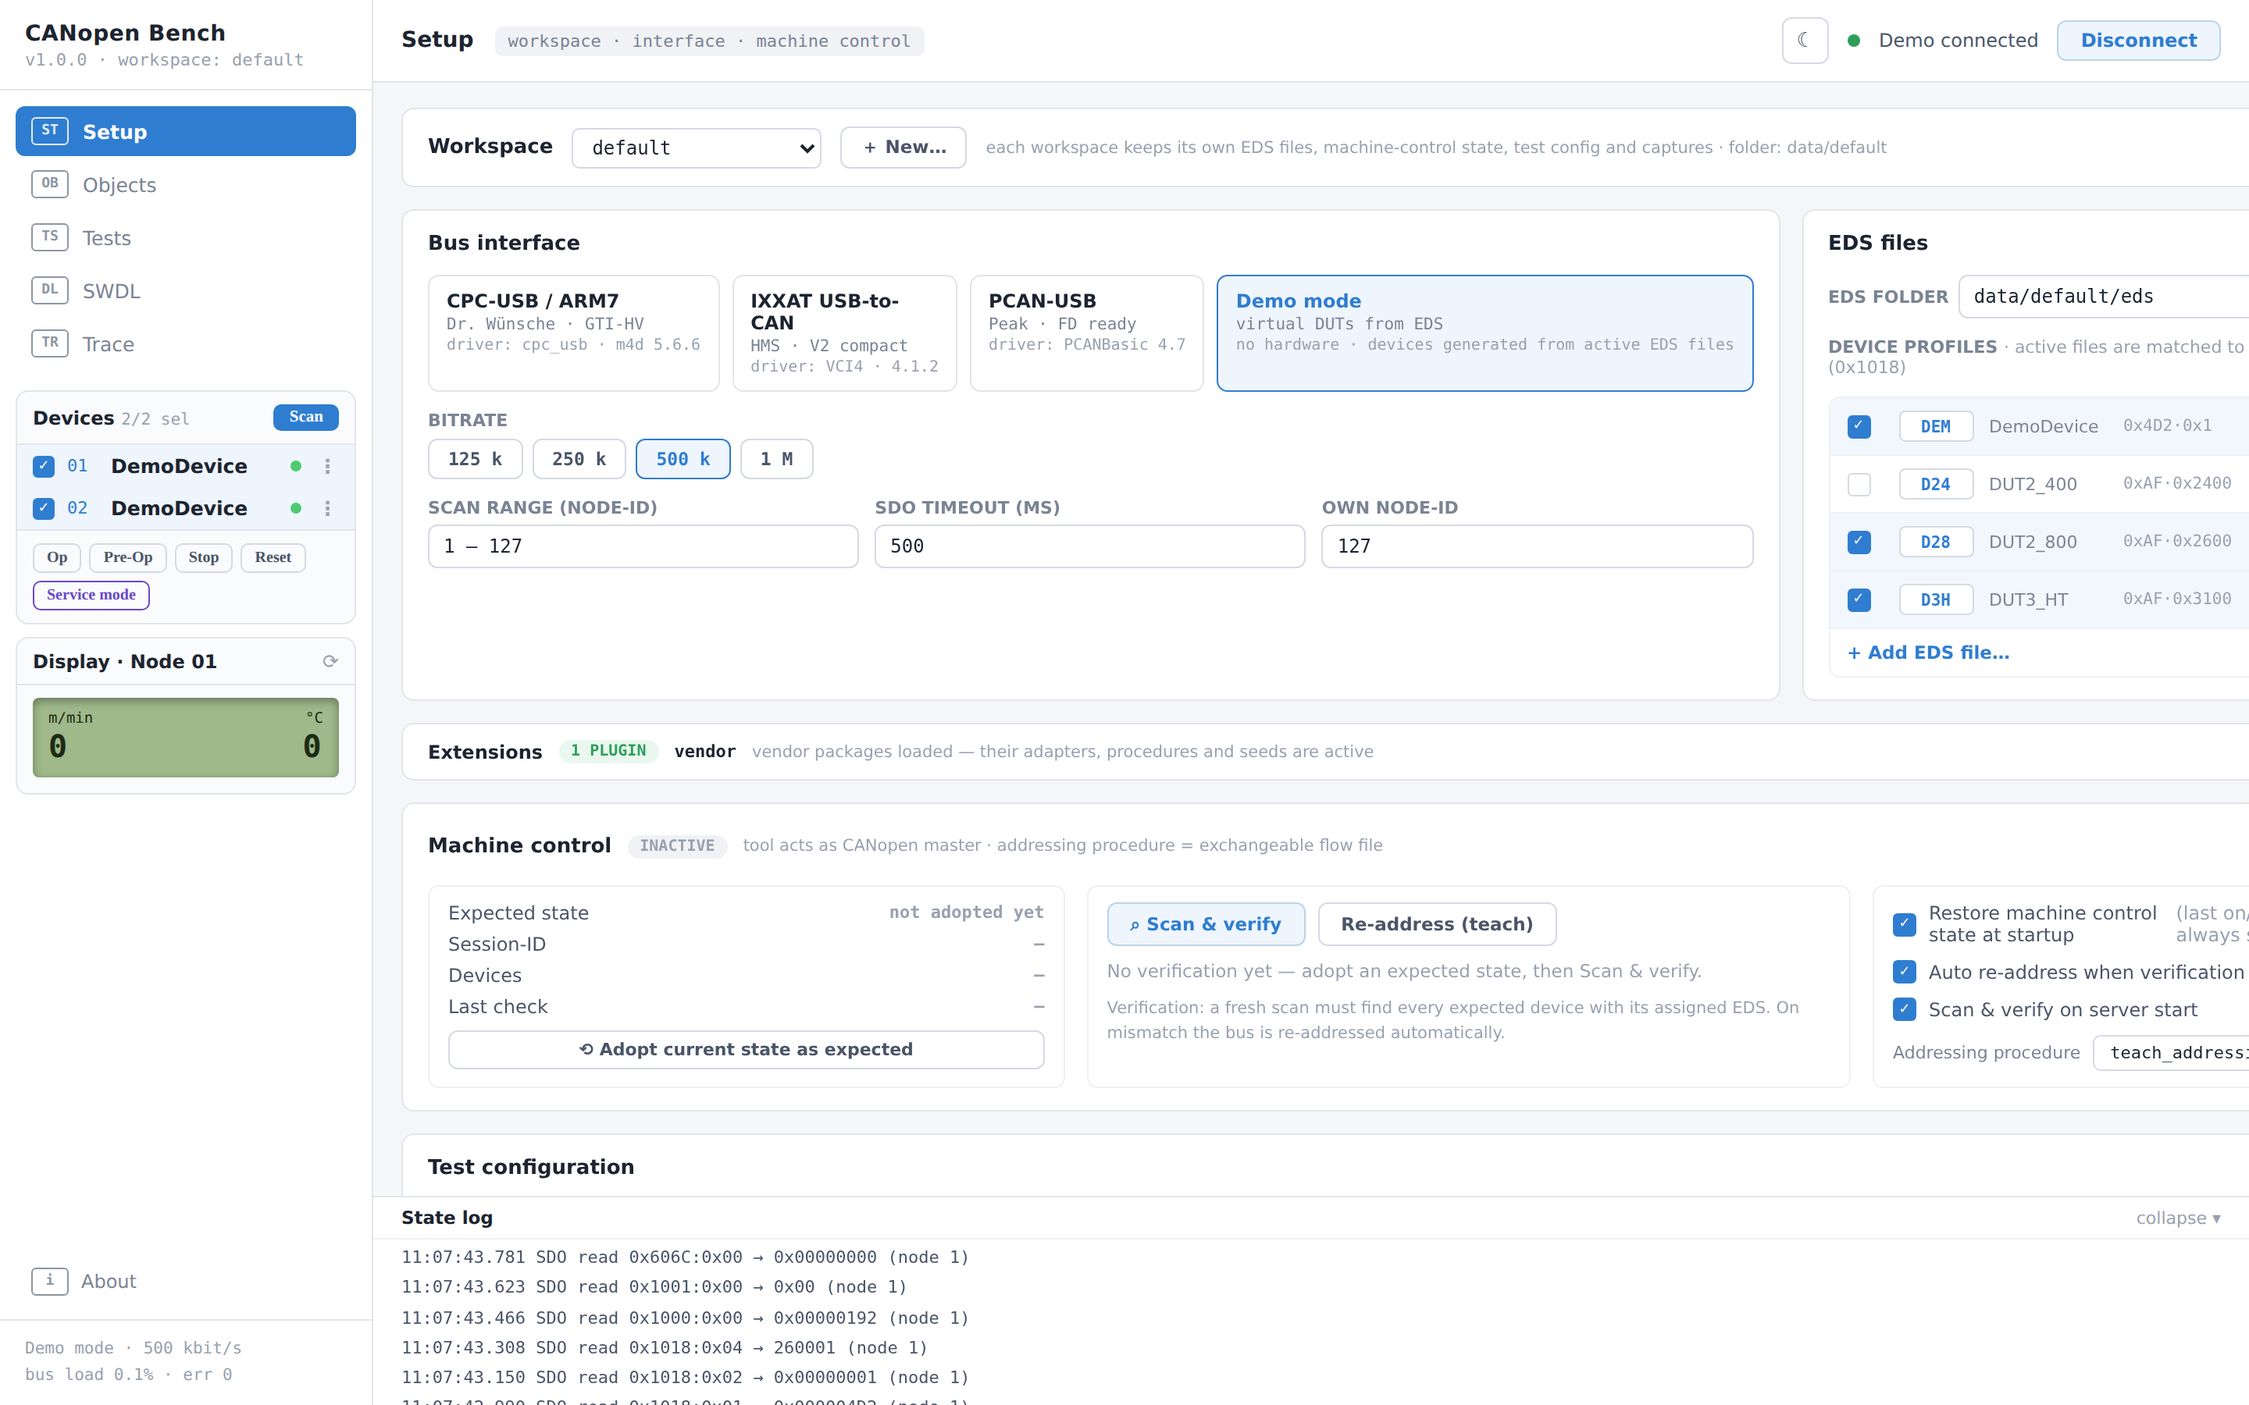
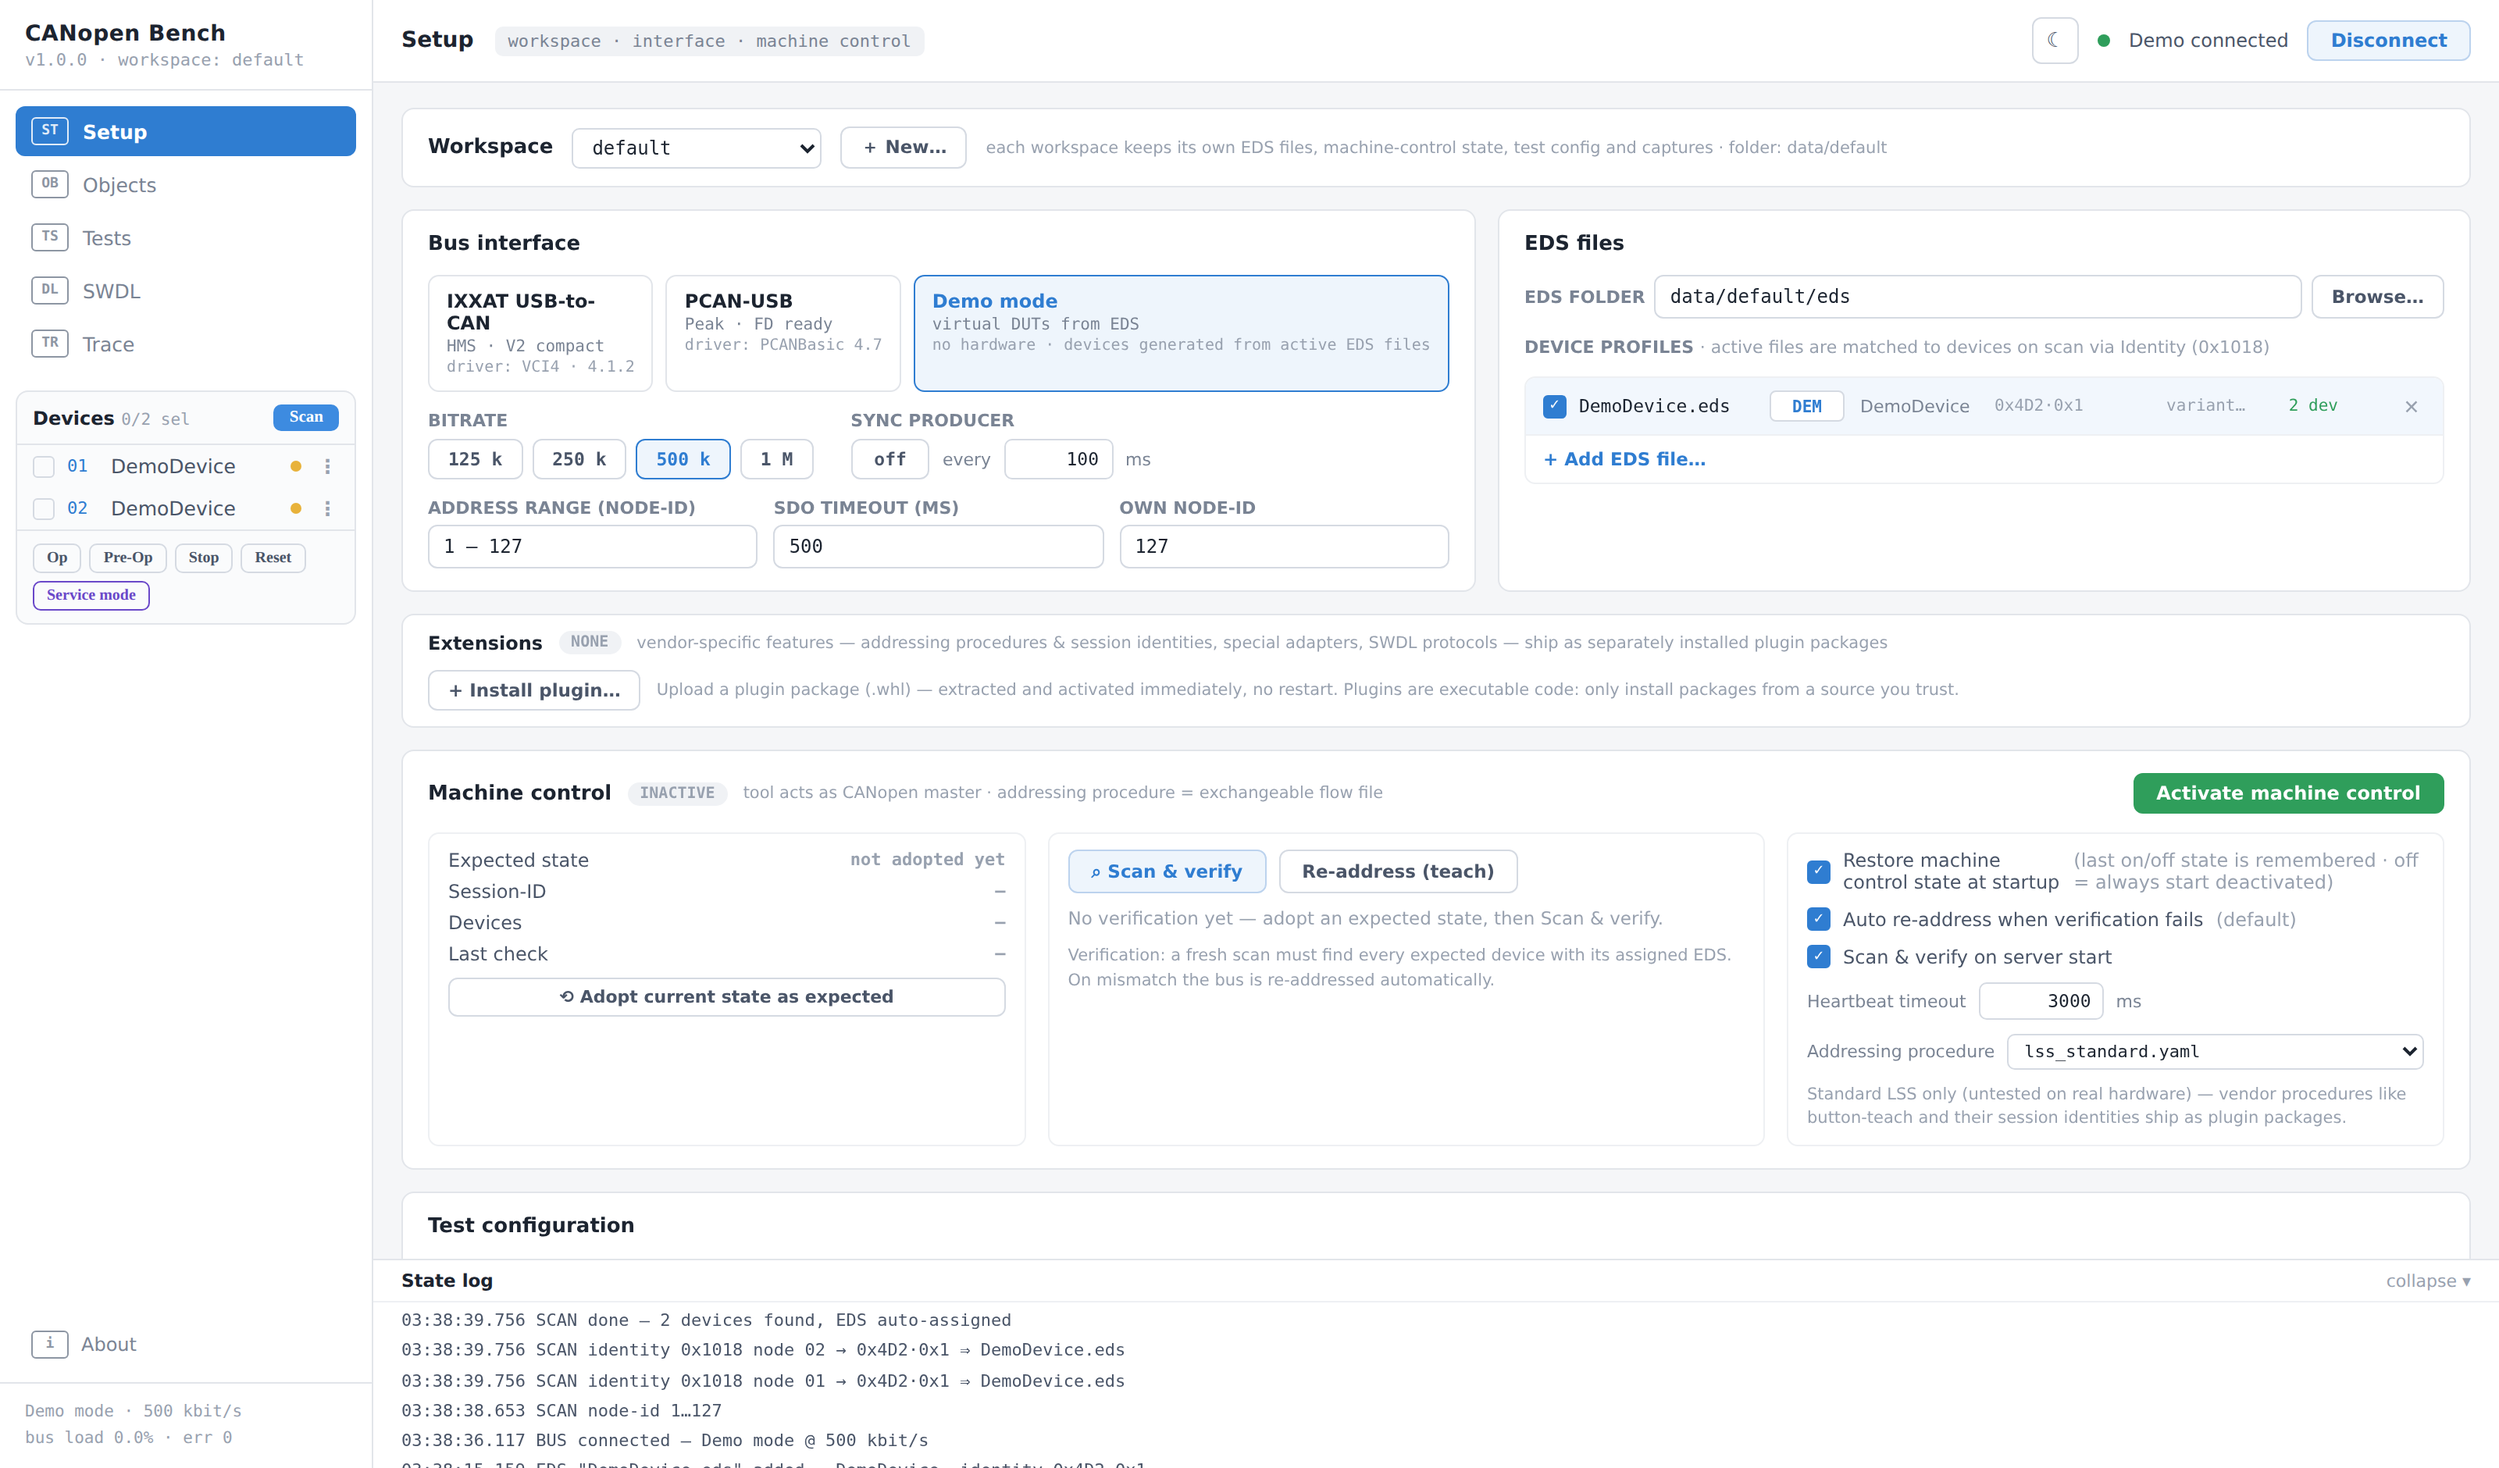
Drop todo.md; add third-party attribution and fix overstated claims
Legal/consistency pass over the public repo:

- remove todo.md (mostly delivered, rest deferred) and the two comments
  that referenced its Kategorie-B section
- add THIRD-PARTY-NOTICES.md and declare it a license-file so it ships
  in every wheel, sdist and Docker image. The vendored
  static/vendor/preact-htm.module.js carried no attribution at all
  although it bundles Preact (MIT) and htm (Apache-2.0) — both licenses
  require the notice to travel with the copy. It also records that
  python-can is LGPL-3.0, which matters when conveying a Docker image
  built from here, and the CANopen(R)/CiA(R) trademark position: this is
  an independent project, not CiA-affiliated and not a conformance test
  tool
- re-shoot docs/img/setup.png. The published screenshot was taken on a
  bench with the proprietary vendor plugin installed and showed its EDS
  registry seeds — device-family names against a real assigned vendor
  ID. The new one is plain demo mode: DemoDevice only, Extensions NONE
- soften the hardware table: it now says what has actually been run
  rather than reading as a warranty of support

Core suite 463 passed; both plugin suites pass against this core with
their entry points registered (19 + 13).

diff --git a/canopen_bench/core.py b/canopen_bench/core.py
@@ -980,7 +980,7 @@ class Bench:
         Assumes the predefined connection set (function code -> PDO
         number) and the EDS *default* mapping —
         a live remapped device may pack differently; reading the actual
-        mapping from the device is commissioning territory (todo.md B)."""
+        mapping from the device is commissioning territory."""
         if row["cls"] != "PDO" or row["node"] is None:
             return
         try:

diff --git a/THIRD-PARTY-NOTICES.md b/THIRD-PARTY-NOTICES.md
@@ -1,0 +1,100 @@
+# Third-party notices
+
+CANopen Bench itself is MIT-licensed (see `LICENSE`). It bundles and
+depends on the components below, which keep their own licenses. This
+file is the attribution required by those licenses; it travels with the
+wheel, the sdist and the Docker image.
+
+## Bundled in this repository
+
+Shipped as source inside the package (`canopen_bench/static/vendor/`),
+so these notices apply to every copy of CANopen Bench:
+
+| Component | License | Copyright |
+|---|---|---|
+| [Preact](https://preactjs.com) | MIT | © 2015-present Jason Miller |
+| [htm](https://github.com/developit/htm) | Apache-2.0 | © 2018 Jason Miller |
+
+Both are combined into the single bundle
+`canopen_bench/static/vendor/preact-htm.module.js`, which carries the
+same notices in its file header. The bundle is unmodified upstream
+output — CANopen Bench adds no code to it.
+
+### MIT (Preact)
+
+> Permission is hereby granted, free of charge, to any person obtaining a
+> copy of this software and associated documentation files (the
+> "Software"), to deal in the Software without restriction, including
+> without limitation the rights to use, copy, modify, merge, publish,
+> distribute, sublicense, and/or sell copies of the Software, and to
+> permit persons to whom the Software is furnished to do so, subject to
+> the following conditions:
+>
+> The above copyright notice and this permission notice shall be included
+> in all copies or substantial portions of the Software.
+>
+> THE SOFTWARE IS PROVIDED "AS IS", WITHOUT WARRANTY OF ANY KIND, EXPRESS
+> OR IMPLIED, INCLUDING BUT NOT LIMITED TO THE WARRANTIES OF
+> MERCHANTABILITY, FITNESS FOR A PARTICULAR PURPOSE AND NONINFRINGEMENT.
+> IN NO EVENT SHALL THE AUTHORS OR COPYRIGHT HOLDERS BE LIABLE FOR ANY
+> CLAIM, DAMAGES OR OTHER LIABILITY, WHETHER IN AN ACTION OF CONTRACT,
+> TORT OR OTHERWISE, ARISING FROM, OUT OF OR IN CONNECTION WITH THE
+> SOFTWARE OR THE USE OR OTHER DEALINGS IN THE SOFTWARE.
+
+### Apache-2.0 (htm)
+
+Licensed under the Apache License, Version 2.0. You may obtain a copy of
+the License at <http://www.apache.org/licenses/LICENSE-2.0>. Unless
+required by applicable law or agreed to in writing, software distributed
+under the License is distributed on an "AS IS" BASIS, WITHOUT WARRANTIES
+OR CONDITIONS OF ANY KIND, either express or implied. See the License for
+the specific language governing permissions and limitations under it.
+
+## Runtime dependencies
+
+Installed by pip, not vendored — but a Docker image built from this
+repository contains them, and distributing that image distributes them:
+
+| Package | License |
+|---|---|
+| [python-can](https://github.com/hardbyte/python-can) | **LGPL-3.0-only** |
+| [canopen](https://github.com/christiansandberg/canopen) | MIT |
+| [FastAPI](https://github.com/fastapi/fastapi) | MIT |
+| [Starlette](https://github.com/encode/starlette) | BSD-3-Clause |
+| [Uvicorn](https://github.com/encode/uvicorn) | BSD-3-Clause |
+| [Pydantic](https://github.com/pydantic/pydantic) | MIT |
+| [PyYAML](https://github.com/yaml/pyyaml) | MIT |
+
+**python-can is LGPL-3.0.** CANopen Bench imports it as an unmodified
+library and neither copies nor modifies its source, so the LGPL's
+obligations attach to python-can alone, not to CANopen Bench. If you
+redistribute a Docker image or any other bundle built from this
+repository, you are conveying python-can and must pass on its license
+text and let recipients replace it with a modified version — with a
+pip-installed package that is already the case, since it can simply be
+reinstalled.
+
+## Plugin packages
+
+Plugins are separate distributions with their own licensing; installing
+one does not change the license of this package. Notably
+[`bench-cpcusb`](https://github.com/NobseVomBerg/CANopen-Bench-GPL-Plugins/tree/main/bench-cpcusb)
+is GPL-2.0-only. Check each plugin's own `LICENSE` before redistributing
+an environment that contains it.
+
+## Trademarks
+
+CANopen® and CiA® are registered trademarks of
+[CAN in Automation e.V.](https://www.can-cia.org/) CANopen Bench is an
+independent project and is neither affiliated with, endorsed by, nor
+certified by CAN in Automation. References to CiA specifications
+(CiA 301, CiA 305, CiA 402, …) describe which published behaviour this
+tool implements; they are not a claim of conformance, and this tool is
+not a CiA conformance test tool.
+
+IXXAT® is a trademark of HMS Networks. PCAN® is a trademark of
+PEAK-System Technik GmbH. CPC-USB is a product of EMS Dr. Thomas Wünsche.
+All other product names are the property of their respective owners and
+are used here solely to state which hardware this software interoperates
+with. Their use implies no affiliation with or endorsement by those
+companies.

diff --git a/README.md b/README.md
@@ -39,14 +39,23 @@ and every access shows up in the Trace like real bus traffic.
 - **Trace** — live monitor with class + device filters over a 200k-frame
   ring buffer, ms/µs timestamps, capture save/load.
 
-## Hardware support
+## Hardware
 
-| Adapter | Driver | Status |
+Which adapters the tool talks to, via python-can. Names are the
+manufacturers' — see the trademark note in `THIRD-PARTY-NOTICES.md`;
+this project is not affiliated with any of them, and the table says what
+has been exercised, not what is warranted.
+
+| Adapter | Driver | State |
 |---|---|---|
-| IXXAT USB-to-CAN | VCI4 (Windows) | supported |
-| PCAN-USB | PCANBasic | supported |
+| IXXAT USB-to-CAN | VCI4 (Windows) | in use on the author's bench |
+| PCAN-USB | PCANBasic | backend wired up, not yet run against a device |
 | Demo mode | — | no hardware, EDS-driven simulation |
-| vendor adapters (e.g. CPC-USB) | via plugin packages | separate install |
+| other adapters (e.g. CPC-USB) | via plugin packages | separate install |
+
+Everything above demo mode goes through python-can's own backends, so
+adapter support tracks python-can. Bring-up checklists live in
+`docs/ablaeufe/A-01-verbinden.md` and `A-02-scan.md`.
 
 ## Workspaces
 
@@ -100,6 +109,12 @@ pytest                          # core suite
 
 ## License & author
 
-Core application: MIT. Vendor extension packages: proprietary.
+Core application: MIT (`LICENSE`). Plugin packages are licensed
+independently — vendor plugins proprietary, `bench-cpcusb` GPL-2.0-only.
+Bundled and depended-on third-party components, and the trademark note
+(CANopen® and CiA® belong to CAN in Automation e.V.; this is not a
+CiA-certified or CiA-affiliated tool), are listed in
+[`THIRD-PARTY-NOTICES.md`](THIRD-PARTY-NOTICES.md).
+
 Created by NobseVomBerg · [unsix.de](https://unsix.de) ·
 [GitHub](https://github.com/NobseVomBerg/CANopen-Bench)

diff --git a/IMPLEMENTATION.md b/IMPLEMENTATION.md
@@ -125,8 +125,8 @@ light + dark theme (toggle in the header, persisted per browser):
   (0x1600-/0x1A00-series) in the EDS assigned to the node — bit-exact
   LSB-first unpacking, INTEGER types sign-extended; this assumes the
   predefined connection set and the EDS *default* mapping (reading the
-  live mapping off the device is the mapping editor's job, todo.md
-  Kategorie B). Demo devices publish TPDO1 per their EDS mapping
+  live mapping off the device would be a mapping editor's job, and no
+  such editor exists yet). Demo devices publish TPDO1 per their EDS mapping
   (`EdsDemoBus._tpdo1_frame`), values consistent with SDO reads.
   EMCY frames are decoded to
   plain text (`core._annotate_emcy`): error code against the CiA-301
